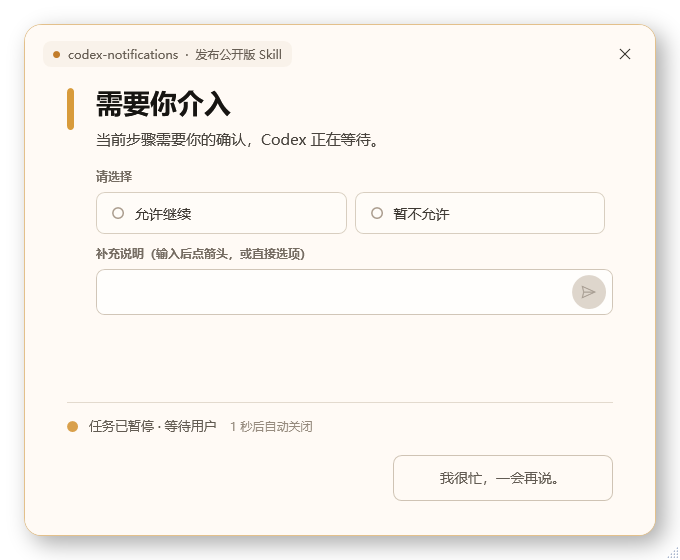
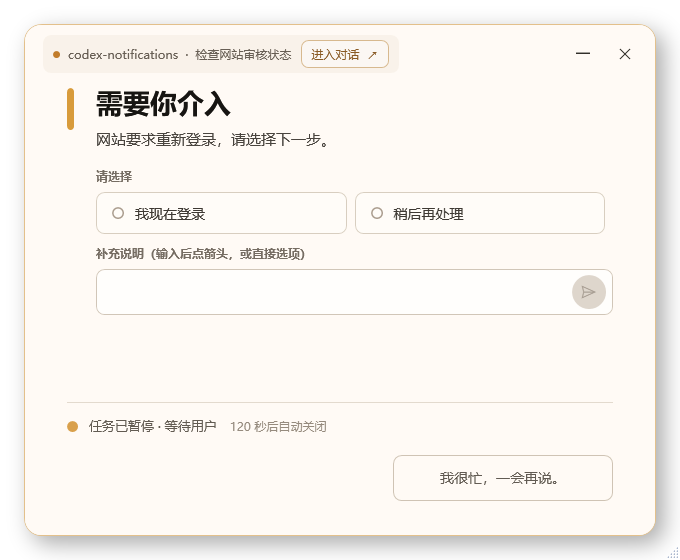
feat: add popup navigation and minimize controls

diff --git a/README.md b/README.md
@@ -11,6 +11,8 @@ A lightweight Windows skill that lets Codex show a task-specific, always-on-top 
 - Notifies you only when Codex cannot safely continue without you, such as login, QR scanning, CAPTCHA, authorization, user-only information, or a consequential choice with no safe default.
 - Creates a fresh copy of the popup source for every request, so Codex can freely adapt the layout, fields, buttons, validation, and interaction to the current task.
 - Shows the originating project and exact Codex sidebar task name in a compact source strip, making simultaneous blocked tasks easy to identify.
+- Adds **Open chat ↗** beside the source name when a thread ID is available. It uses Codex Desktop's registered `codex://threads/<threadId>` deep link to switch to the originating task without submitting or dismissing the popup.
+- Includes a minimize control in the upper-right. Minimizing keeps the popup and Codex waiting state active, and the window can be restored from the Windows taskbar.
 - Keeps the current Codex task waiting for your real response instead of treating popup close or expiry as approval.
 - Always includes **“我很忙，一会再说。”** (“I’m busy, ask me later”) as a non-terminal response.
 - Provides a desktop settings shortcut for duration, sound, enable/disable, and foreground behavior.
@@ -91,7 +93,7 @@ $created = & "$skillRoot\scripts\new-dialog.ps1" `
 & "$skillRoot\scripts\show-dialog.ps1" -RequestDirectory $created.requestDirectory
 ```
 
-You should see a warm white topmost window with a source label in the upper-left. Selecting an option submits immediately; typed text is sent with the inline arrow. The test popup closes automatically after two minutes.
+You should see a warm white topmost window with a source label in the upper-left and minimize/close controls in the upper-right. When the test runs inside a Codex task, **Open chat ↗** appears beside the source and switches Codex back to that task. Selecting an option submits immediately; typed text is sent with the inline arrow. The test popup closes automatically after two minutes.
 
 ### 4. Use it normally
 

diff --git a/README.zh-CN.md b/README.zh-CN.md
@@ -11,6 +11,8 @@
 - 仅在没有用户介入就无法安全继续时提醒，例如登录、扫码、验证码、授权、用户专属信息、物理操作或没有安全默认项的重要选择。
 - 每次请求复制一份完整弹窗源码，Codex 可针对当次任务自由修改布局、字段、按钮、验证和交互。
 - 弹窗左上角显示来源项目和 Codex 侧边栏中的准确任务名，多个任务同时等待时也能快速区分。
+- 存在线程 ID 时，来源名称右侧显示“进入对话 ↗”，通过 Codex Desktop 已注册的 `codex://threads/<threadId>` 深链接切回对应任务；这个动作不会提交回复或关闭弹窗。
+- 右上角提供最小化按钮；最小化不会解除等待，可从 Windows 任务栏恢复弹窗。
 - 关闭弹窗、弹窗到期或选择“我很忙，一会再说。”都不会被当作确认、授权或任务完成。
 - 提供桌面设置入口，可调整启用状态、展示时长、提示音和前台显示。
 - 不使用 Codex Hook，也不修改 `config.toml`。
@@ -92,7 +94,7 @@ $created = & "$skillRoot\scripts\new-dialog.ps1" `
 & "$skillRoot\scripts\show-dialog.ps1" -RequestDirectory $created.requestDirectory
 ```
 
-正常情况下，你会看到一个暖白色置顶窗口：左上角显示来源，选择任一选项会立即提交；也可以在输入框中填写文字后点击箭头。测试弹窗两分钟后自动关闭。
+正常情况下，你会看到一个暖白色置顶窗口：左上角显示来源，右上角提供最小化和关闭按钮。在 Codex 任务中运行测试时，来源右侧还会显示“进入对话 ↗”，点击即可切回当前任务。选择任一选项会立即提交；也可以在输入框中填写文字后点击箭头。测试弹窗两分钟后自动关闭。
 
 ### 第四步：正常使用
 

diff --git a/SKILL.md b/SKILL.md
@@ -41,6 +41,8 @@ $created = & "<skill-root>\scripts\new-dialog.ps1" `
 
 Keep the source strip in the popup's upper-left corner. `new-dialog.ps1` automatically resolves the project from the caller's Git root or working directory. The Codex app task list is the authoritative source for the sidebar task name, so normally pass its exact `title` as `-ConversationName`. The script may use only an explicit local thread `name` as a fallback; it must never use the database `title` or `first_user_message`, because either can contain the opening prompt instead of the sidebar title. If no trustworthy task name is available, let the script show a short task ID. Never invent a misleading source name. Preserve `projectName`, `conversationName`, `threadId`, and `sourceLabel` when customizing the popup.
 
+Keep the source strip's **“进入对话 ↗”** control when a thread ID exists. It opens `codex://threads/<threadId>` through the Codex Desktop protocol so the app switches to the task that created the popup. Hide the control when no thread ID is available. Opening the task is navigation only: it must not write a terminal result, close the popup, or release the waiting turn. Also keep a visible minimize control in the upper-right corner; minimizing is non-terminal and must preserve the popup and waiting state.
+
 Read `$created.dialogScript` completely. It is a full standalone copy of the warm-paper reference implementation created only for this request.
 
 Edit that copied PowerShell file as freely as the current task requires. You may replace the layout, controls, fields, buttons, validation, visuals, window size, event handlers, and interaction model. The project deliberately imposes no UI schema. Preserve only the result-file contract when the popup itself must return data to Codex.
